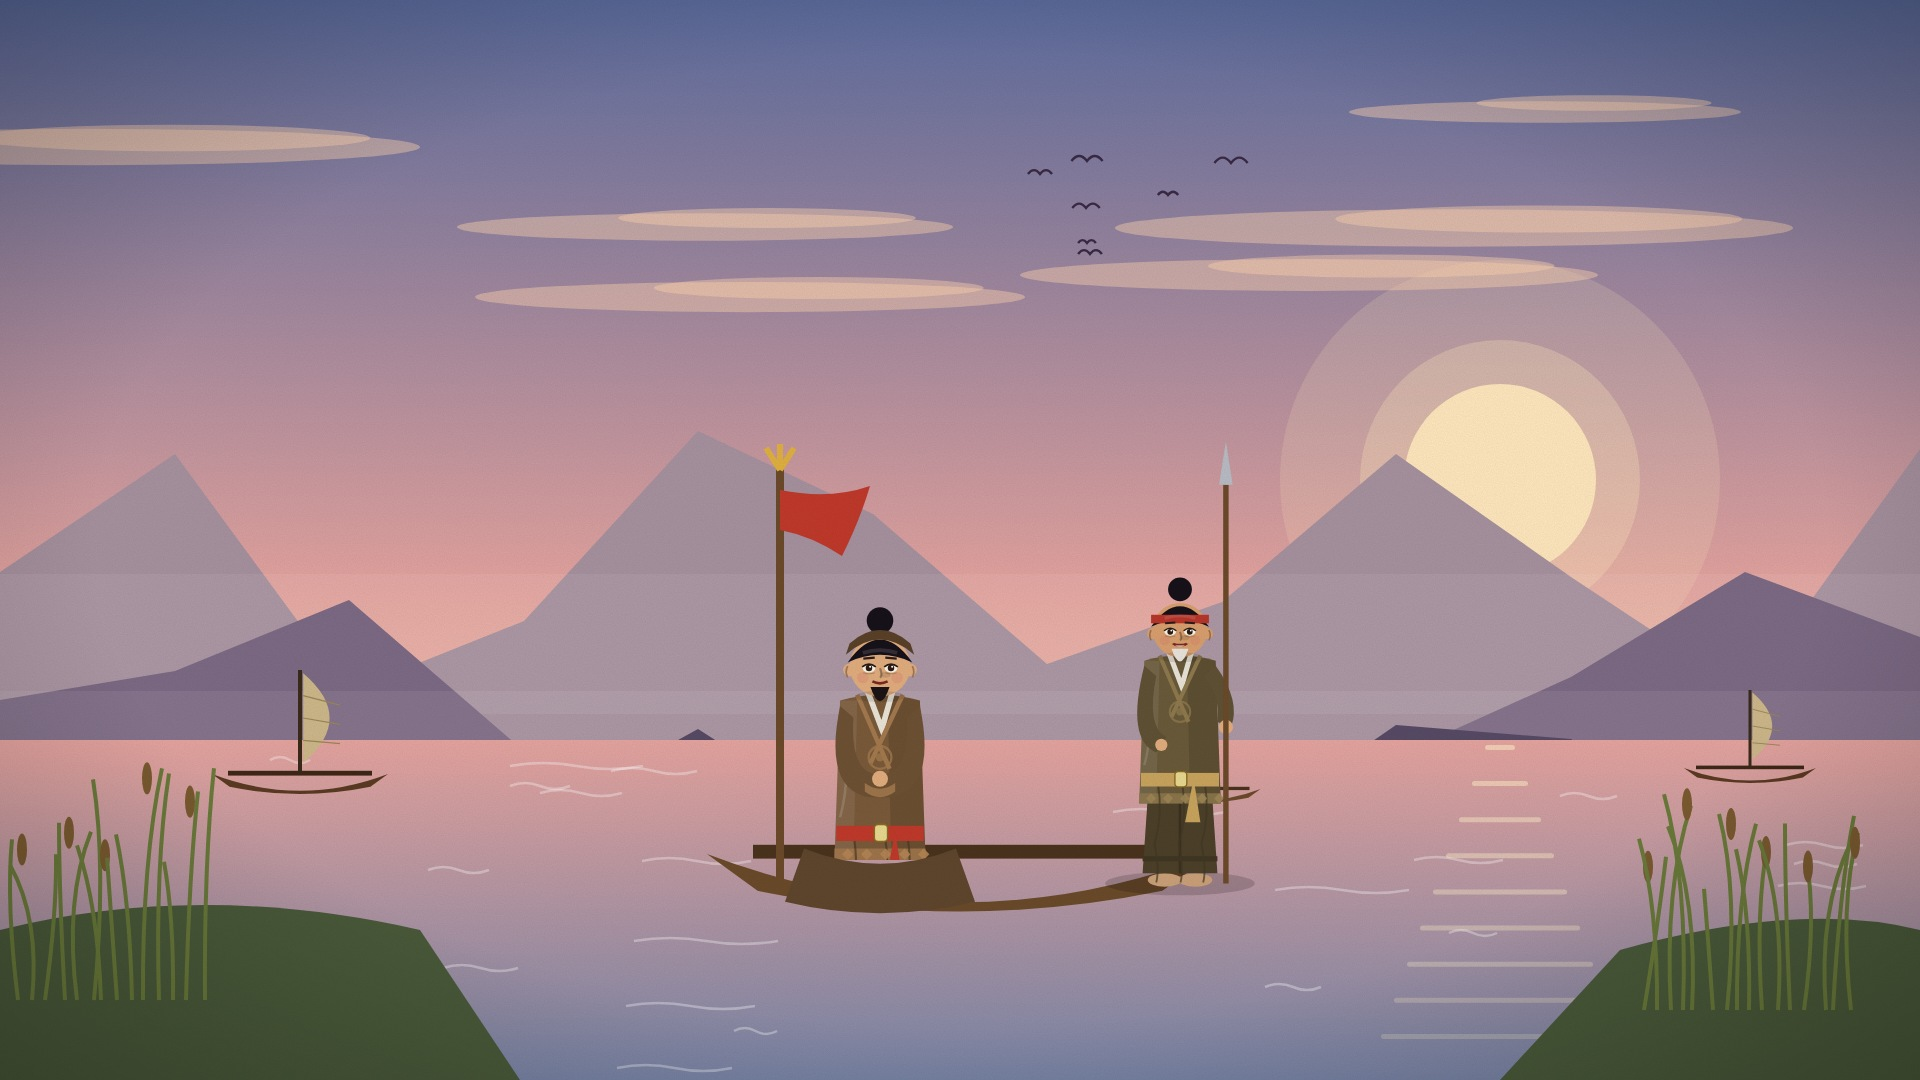
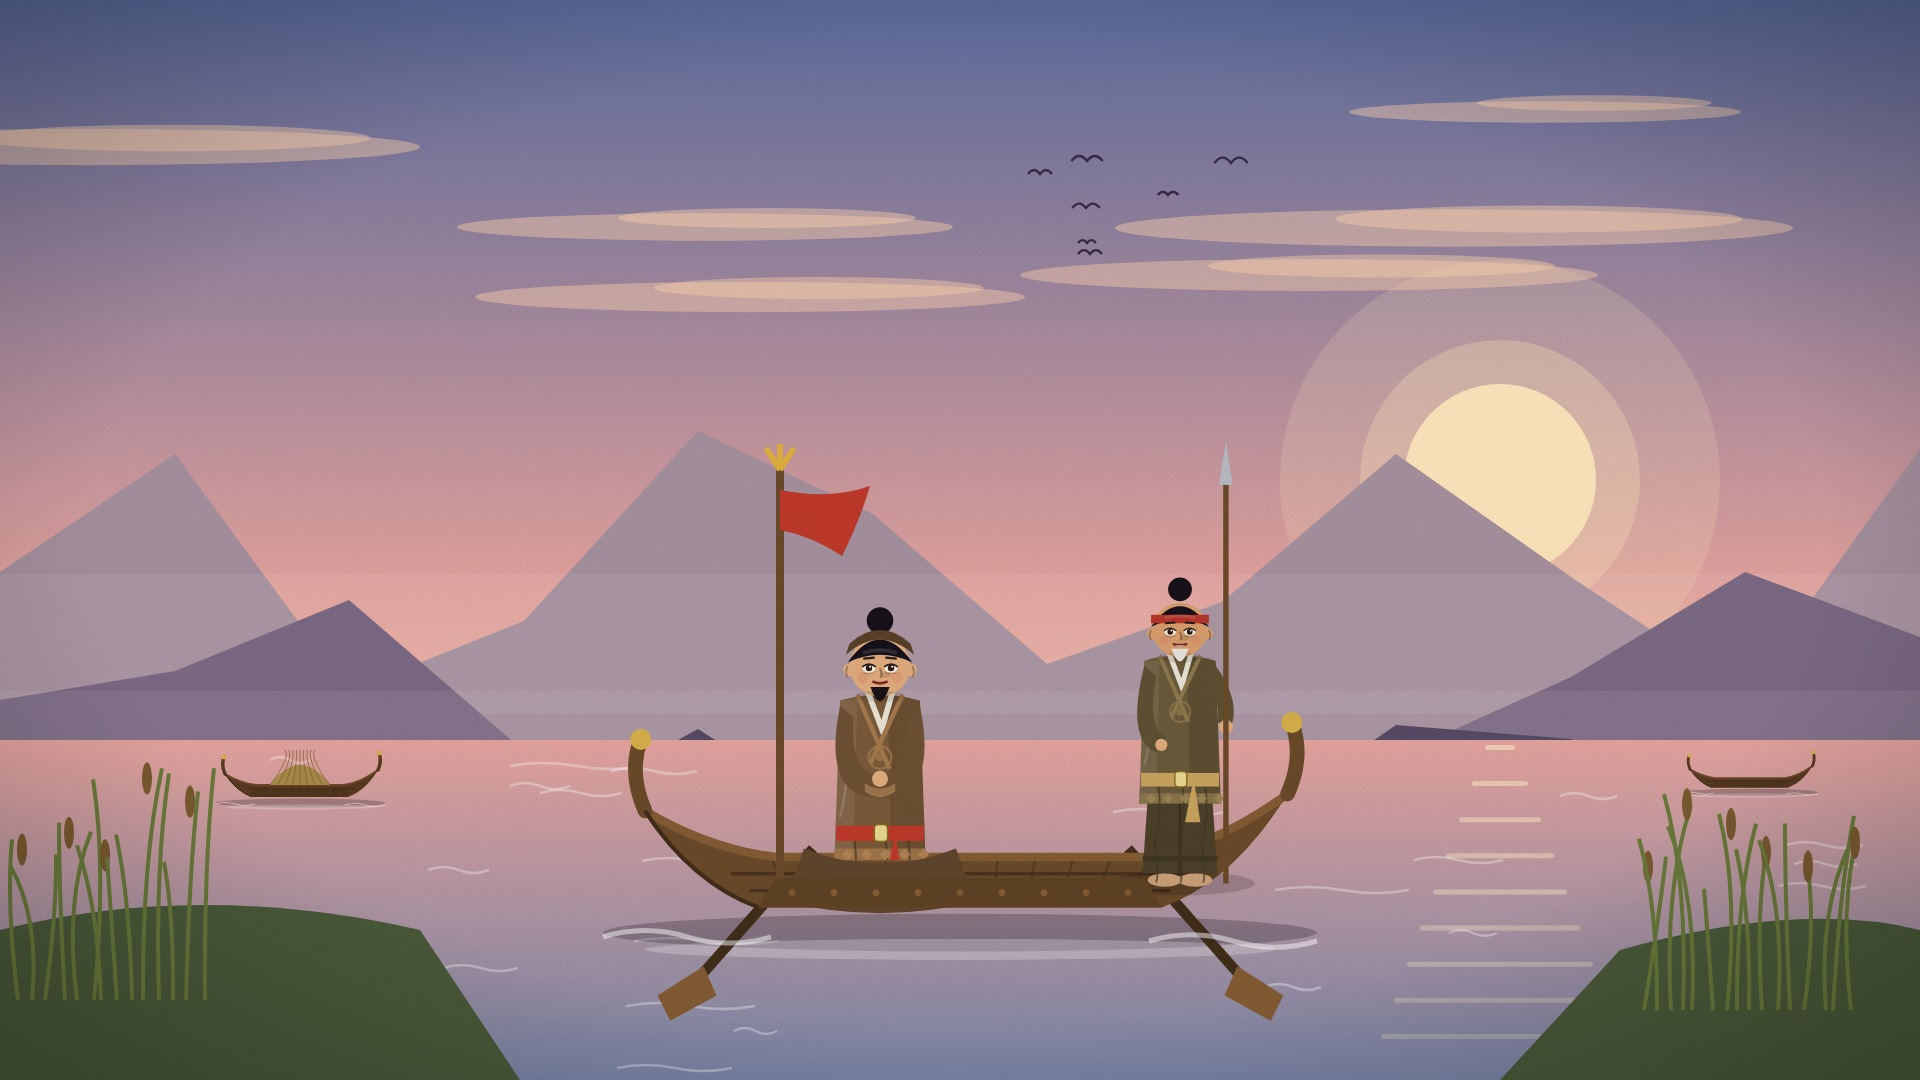
Vẽ lại thuyền sông (mũi đuôi cong, ván ghép, mái chèo) cho ảnh chi tiết cao [skip ci]
Claude-Session: https://claude.ai/code/session_01H1Wbxj9sAcUYRQ6Wju6xqR

diff --git a/phim_ban_do/phang/chitiet.py b/phim_ban_do/phang/chitiet.py
@@ -93,6 +93,37 @@ def drum(x, y, s=1.0):
     return G('drum', o)
 
 
+
+def boat2(x, y, s, col='#6a4a2a', mui=False, oars=True):
+    """Thuyền sông: mũi và đuôi cong vút, ván ghép, mạn thuyền, mái nan (tuỳ chọn), mái chèo, gợn nước. Trả về (phần sau, phần trước)."""
+    dk, lt = sh(col, .62), sh(col, 1.25)
+    hull = (f'M{x-150*s},{y-52*s} Q{x-128*s},{y-18*s} {x-96*s},{y-6*s} L{x+96*s},{y-6*s} Q{x+130*s},{y-18*s} {x+156*s},{y-60*s} '
+            f'Q{x+120*s},{y-34*s} {x+88*s},{y-30*s} L{x-88*s},{y-30*s} Q{x-120*s},{y-34*s} {x-150*s},{y-52*s}Z')
+    b = f'<ellipse cx="{x}" cy="{y+6*s}" rx="{170*s}" ry="{9*s}" fill="#000" opacity=".22"/>'
+    b += f'<ellipse cx="{x}" cy="{y+14*s}" rx="{150*s}" ry="{5*s}" fill="#fff" opacity=".25"/>'
+    if oars:
+        for sd, ox in ((-1, x - 70 * s), (1, x + 80 * s)):
+            b += f'<line x1="{ox}" y1="{y-34*s}" x2="{ox+sd*60*s}" y2="{y+34*s}" stroke="{dk}" stroke-width="{5*s}"/><path d="M{ox+sd*52*s},{y+22*s} l{sd*22*s},{14*s} l{-sd*6*s},{12*s} l{-sd*22*s},{-12*s}Z" fill="{lt}"/>'
+    b += f'<path d="{hull}" fill="{col}"/>'
+    # ván thân thuyền
+    for k in (1, 2):
+        yy = y - 30 * s + k * 8 * s
+        b += f'<path d="M{x-118*s+k*9*s},{yy} L{x+118*s-k*9*s},{yy}" stroke="{dk}" stroke-width="{1.6*s}" opacity=".75"/>'
+    for k in range(-5, 6):
+        b += f'<line x1="{x+k*18*s}" y1="{y-30*s}" x2="{x+k*16*s}" y2="{y-8*s}" stroke="{dk}" stroke-width="{1.2*s}" opacity=".45"/>'
+    b += f'<path d="M{x-150*s},{y-52*s} Q{x-120*s},{y-34*s} {x-88*s},{y-30*s} L{x+88*s},{y-30*s} Q{x+120*s},{y-34*s} {x+156*s},{y-60*s}" stroke="{lt}" stroke-width="{4*s}" fill="none"/>'
+    b += f'<path d="M{x-150*s},{y-52*s} q{-8*s},{-18*s} {-2*s},{-34*s} M{x+156*s},{y-60*s} q{8*s},{-18*s} {2*s},{-34*s}" stroke="{col}" stroke-width="{7*s}" fill="none" stroke-linecap="round"/>'
+    b += f'<circle cx="{x-152*s}" cy="{y-86*s}" r="{5*s}" fill="#d8b04a"/><circle cx="{x+158*s}" cy="{y-94*s}" r="{5*s}" fill="#d8b04a"/>'
+    f = f'<path d="M{x-96*s},{y-6*s} L{x+96*s},{y-6*s} L{x+88*s},{y-20*s} L{x-88*s},{y-20*s}Z" fill="{sh(col,.9)}"/>'
+    f += f'<path d="M{x-150*s},{y-52*s} Q{x-128*s},{y-18*s} {x-96*s},{y-6*s}" stroke="{dk}" stroke-width="{2*s}" fill="none"/>'
+    for k in range(-4, 5):
+        f += f'<circle cx="{x+k*20*s}" cy="{y-13*s}" r="{1.6*s}" fill="{lt}"/>'
+    f += f'<path d="M{x-170*s},{y+8*s} q{20*s},{-6*s} {40*s},0 t{40*s},0 M{x+90*s},{y+10*s} q{20*s},{-6*s} {40*s},0 t{40*s},0" stroke="#fff" stroke-width="{2.4*s}" fill="none" opacity=".5"/>'
+    if mui:
+        f += f'<path d="M{x-60*s},{y-30*s} Q{x},{y-110*s} {x+60*s},{y-30*s}Z" fill="#a98a4a"/>' + ''.join(f'<path d="M{x-60*s+k*15*s},{y-30*s} Q{x+(k*15-60)*0.3*s},{y-85*s} {x-30*s+k*15*s*0.5},{y-100*s}" stroke="#7a5f2c" stroke-width="{1.4*s}" fill="none"/>' for k in range(0, 9))
+    return G('boat', b), G('boatf', f)
+
+
 SCN = {}
 
 
@@ -150,15 +181,17 @@ def _():
     L = outdoor('dawn', sun=(1500, 480), cl=38, mt=700)
     L.append(river(740, 1080, 'dawn'))
     L.append(sunpath(1500, 745, 1070))
-    L.append(boat(300, 790, .8, sail=True, col='#5a3a22')); L.append(boat(1750, 780, .6, sail=True, col='#5a3a22'))
-    L.append(boat(1200, 800, .55, sail=False)); 
+    L.append(boat2(300, 800, .5, col='#5a3a22', mui=True, oars=False)[0]+boat2(300, 800, .5, col='#5a3a22', mui=True, oars=False)[1]); L.append(boat2(1750, 790, .4, col='#5a3a22', oars=False)[0]+boat2(1750, 790, .4, col='#5a3a22', oars=False)[1])
+    
     L.append(G('bank', '<path d="M0,1080 L0,930 Q200,880 420,930 L520,1080Z" fill="#4a5a3a"/><path d="M1500,1080 L1620,950 Q1800,900 1920,930 L1920,1080Z" fill="#4a5a3a"/>'))
     L.append(reeds(20, 1000, 14, 220)); L.append(reeds(1640, 1010, 16, 200))
-    L.append(boat(960, 900, 2.3, sail=False))
+    bb, bf = boat2(960, 920, 2.1)
+    L.append(bb)
     L.append(G('staff', '<line x1="780" y1="880" x2="780" y2="460" stroke="#6b4a2a" stroke-width="8"/><path d="M780,470 l0,-26 M780,470 l-14,-22 M780,470 l14,-22" stroke="#e0b040" stroke-width="6"/>'
                '<path class="pen" d="M780,490 q50,10 90,-4 q-10,34 -28,70 q-30,-20 -62,-26Z" fill="#c0392b"/>'))
     L.append(sit('DTN', 880, 860, 1.9, pose='hands'))
     L.append(P('OFF1', 1180, 880, 1.7, col='#6a5a3a', turban=None, crown='headband', pose='spear', spear='bare', beard='white_goatee', seed=175))
+    L.append(bf)
     L.append(birds(1100, 220, 5, '#3a2a45', 7))
     return svg(L, 'dawn')
 
